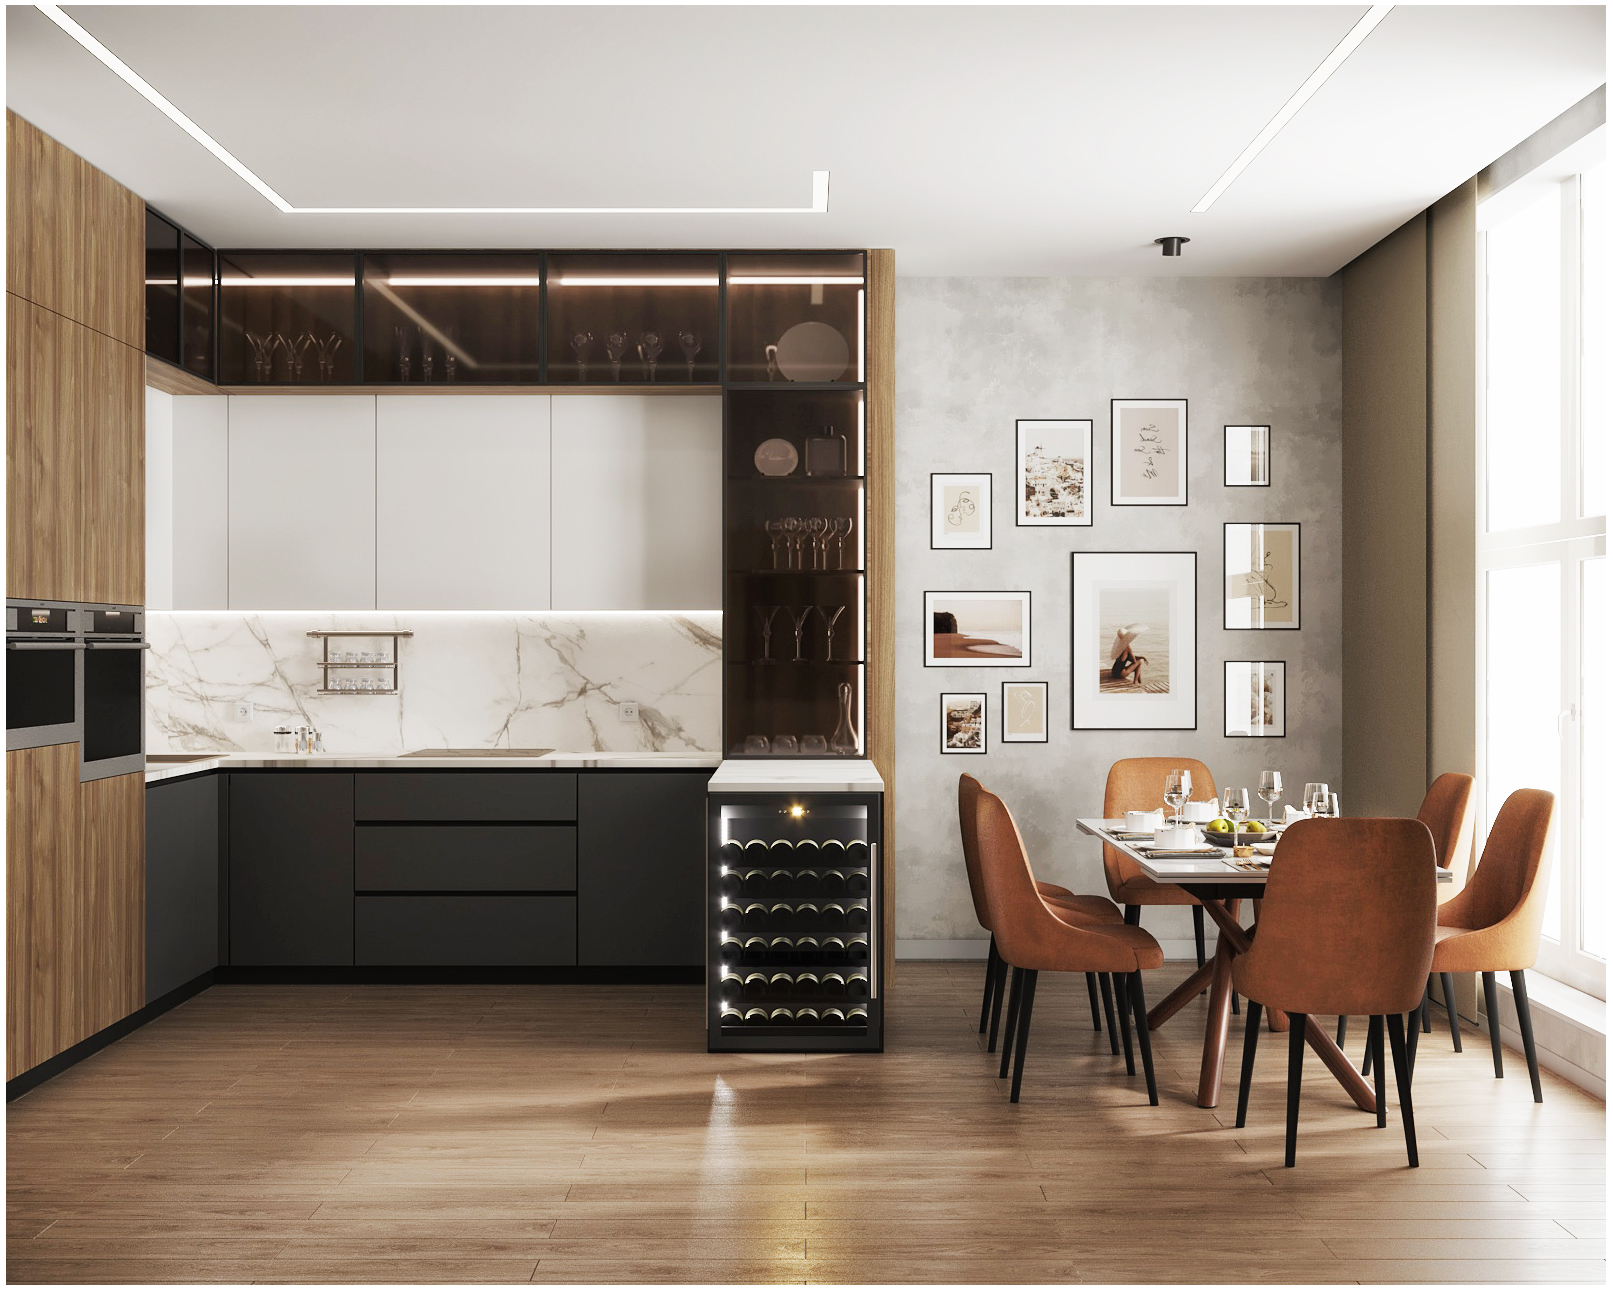
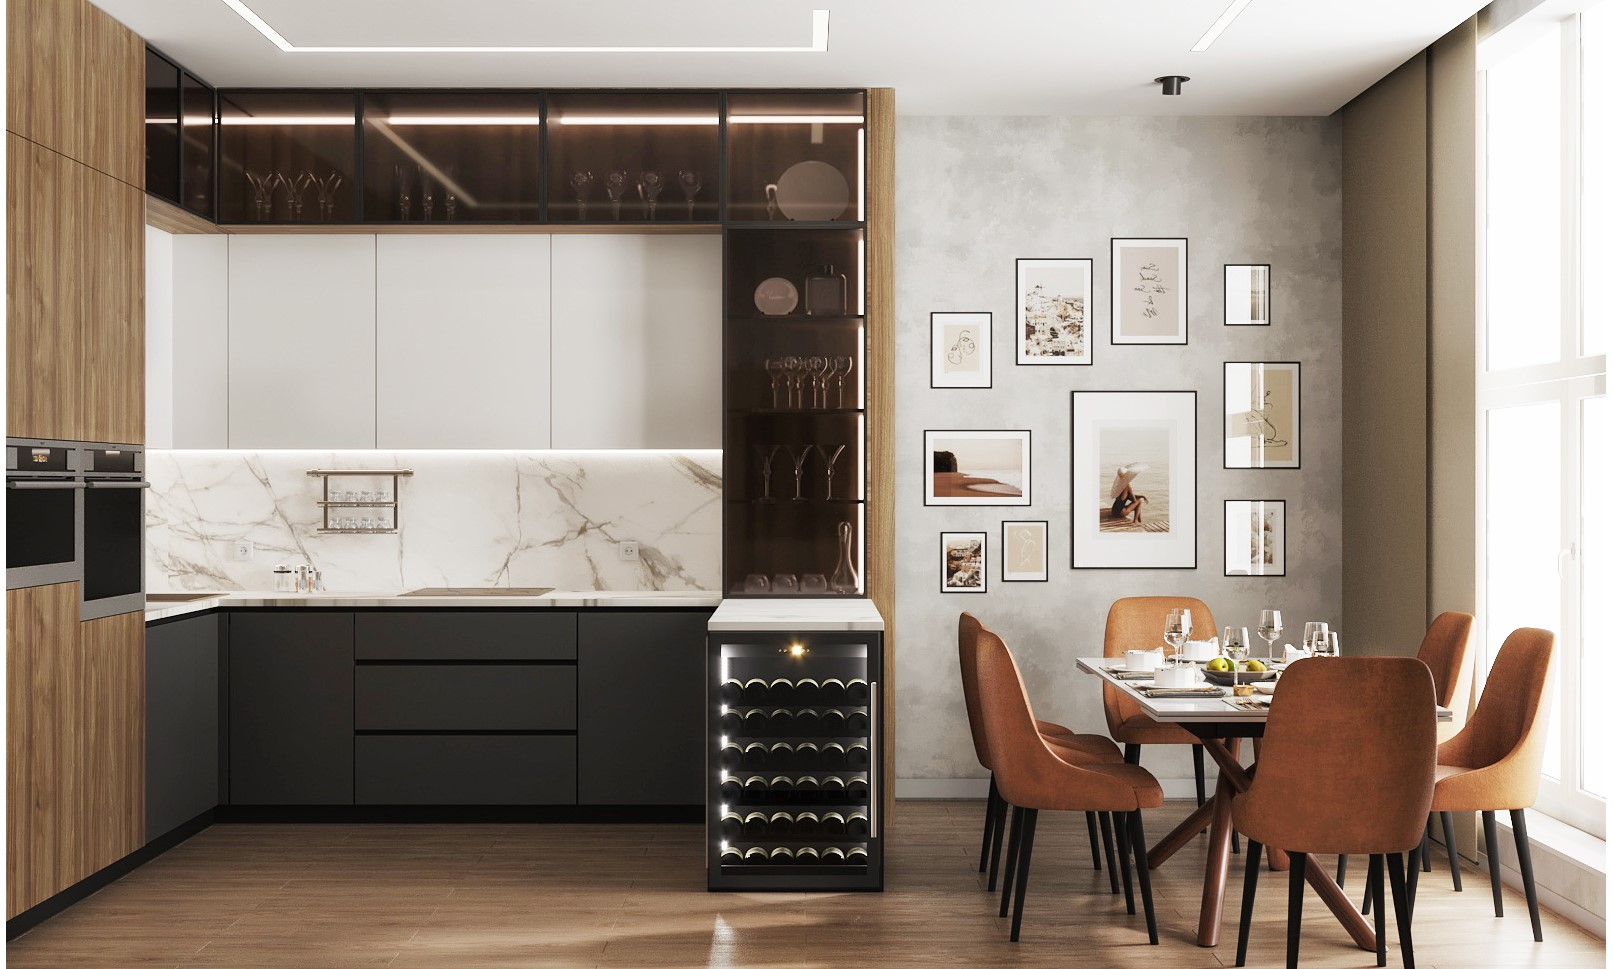
V3 Изменены представления картинок в профиле

diff --git a/public/css/design.css b/public/css/design.css
@@ -319,3 +319,13 @@ img.calc-height {
     border-bottom: 1px solid #FFFFFF;
     margin-bottom: 10vh;
 }
+
+.aspect-ratio-box img {
+    /* Image should match parent box size
+    position: absolute;
+    left: 0;
+    top: 0;*/
+    max-width: 100%;
+    max-height: 100%;
+    object-fit: cover;
+}

diff --git a/resources/views/pages/project/project.blade.php b/resources/views/pages/project/project.blade.php
@@ -25,40 +25,43 @@
                         // нет необходимости писать $(this), так как "this" - это уже объект jQuery
                         // выражение $(this) будет эквивалентно $($('#element'));
                         var img = this.find('img');
-
+                        var arr = [];
                         img.each(function (i){
                             var width_div = $(this).parent().parent().width();
                             var height_img = this.height;
                             var width_img = this.width;
-                            var width_new_img = width_div;
-
-                            var height_new_img = width_new_img*(3/4);
-                            //$(this).css('height', height_new_img);
-                            //$(this).css('width', width_new_img);
                             if(width_img/height_img > 1){
                                 //альбомный формат
-                                height_new_img = (width_new_img*(3/4));
-                                //$(this).css('height', height_new_img);
                                 $('#album').append(this);
                             }else{
                                 //книжный
-
-                                $('#book').append('<div>');
-
-                                $('#book div:last').addClass('col-6');
-                                $('#book div:last').append(this);
-
+                                arr.push(this);
+                                /*$('#book').append('<div>');
+                                $('#book div:last').addClass('col-6 aspect-ratio-box');
+                                $('#book div:last').append(this);*/
                             }
-                            console.log('w' + width_img + 'x' + width_new_img + 'div' + width_div);
-                            console.log('h' + height_img + 'x' + height_new_img);
                         })
+                        console.log(arr.length);
+                        for(let i=0 ; i<=(arr.length/2); i+=2)
+                        {
+                            $('#book').append('<div>');
+                            $('#book div').addClass('fool-window-width d-flex justify-content-center flex-wrap books');
+                            $.each(arr.slice(i,i+2),function(index, value){
+                                console.log(value);
+                                $('#book div').append('<div>');
+                                $('#book div div:last').addClass('col-6 aspect-ratio-box p-0 m-0');
+                                $('#book div div:last').append(value);
+                                console.log(i);
+                            });
+                        }
+
+                        $('.books:eq(0)').clone(true,true).after($('#album div div'));
 
                         this.fadeIn('normal', function(){
 
                             // тут "this" - это элемент дерева DOM
 
                         });
-
                     };
                 })( jQuery );
             $(".plugin").myPlugin();
@@ -111,24 +114,24 @@
             </div>
             <div class="plugin fool-window-width d-flex justify-content-center flex-wrap">
                 @for($i = 1; $i <= 7; $i++)
-                    <div>
+                    <div class="overflow-hidden">
                         <img src="{{asset('images/projects/p1/'. $i .'.jpg')}}">
                     </div>
                 @endfor
             </div>
+            <div id="album" class="fool-window-width d-flex justify-content-center flex-wrap aspect-ratio-box zoom-img">
 
+            </div>
+            <hr/>
+            <div id="book" class="fool-window-width d-flex justify-content-center flex-wrap zoom-img">
+
+            </div>
         <div class="bg-light">
             <div class=" d-flex justify-content-center align-items-center flex-wrap row " style="min-height: 100px">
                 <a href="/portfolio/" class="btn btn-outline-primary fs-6 col-6 col-sm-6 col-md-4 col-lg-4 col-xl-4 col-xxl-4">Посмотреть другие проекты</a>
             </div>
         </div>
-            <div id="album" class="fool-window-width">
 
-            </div>
-            <hr/>
-            <div id="book" class="fool-window-width d-flex justify-content-center flex-wrap">
-
-            </div>
         </section>
         @include('pages/mainSections/cooperation')
         @include('pages/mainSections/form')
